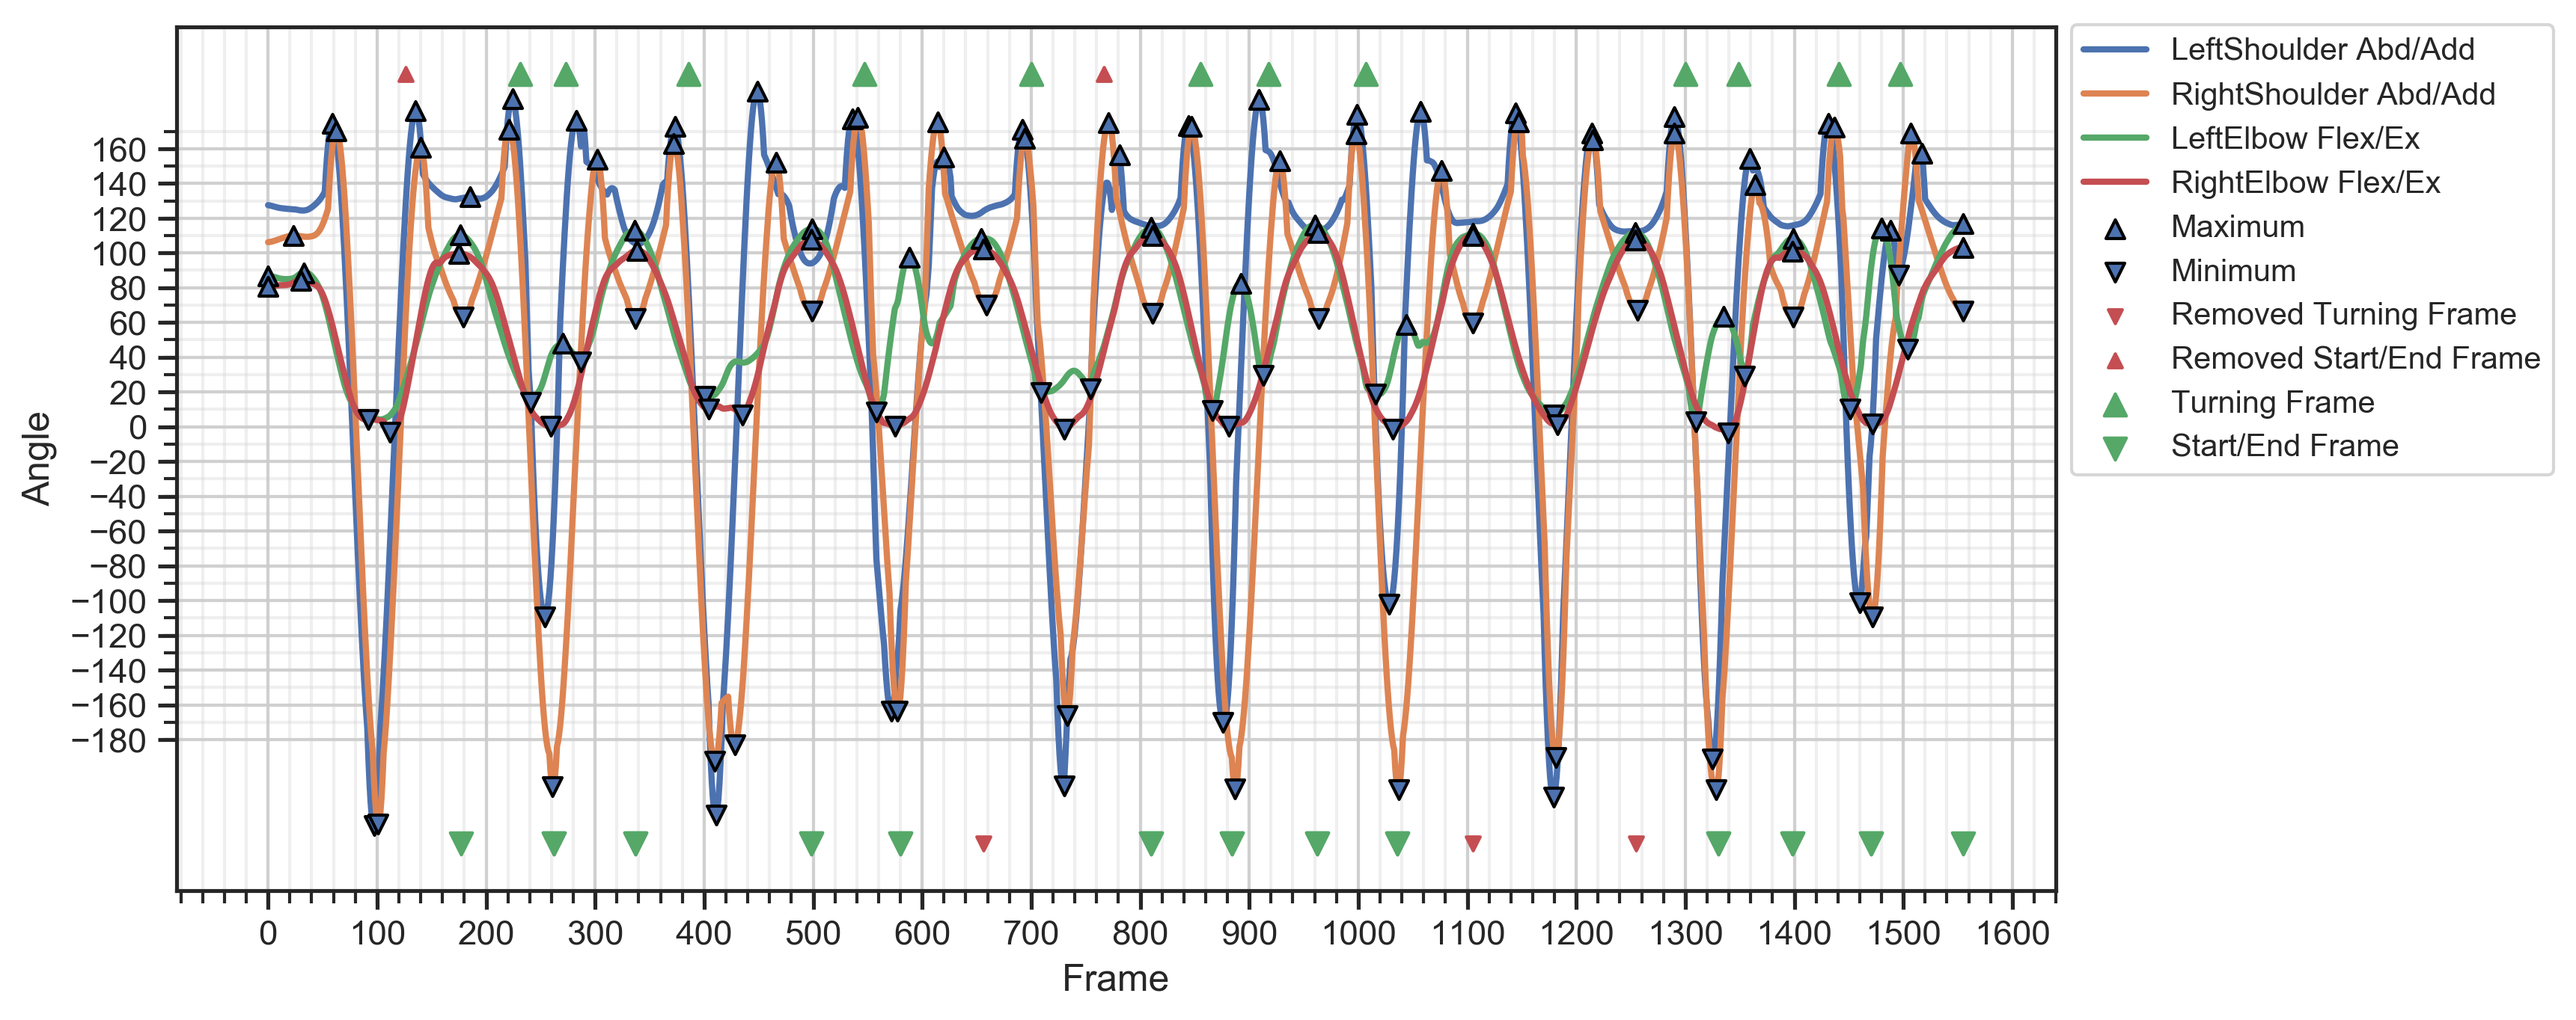
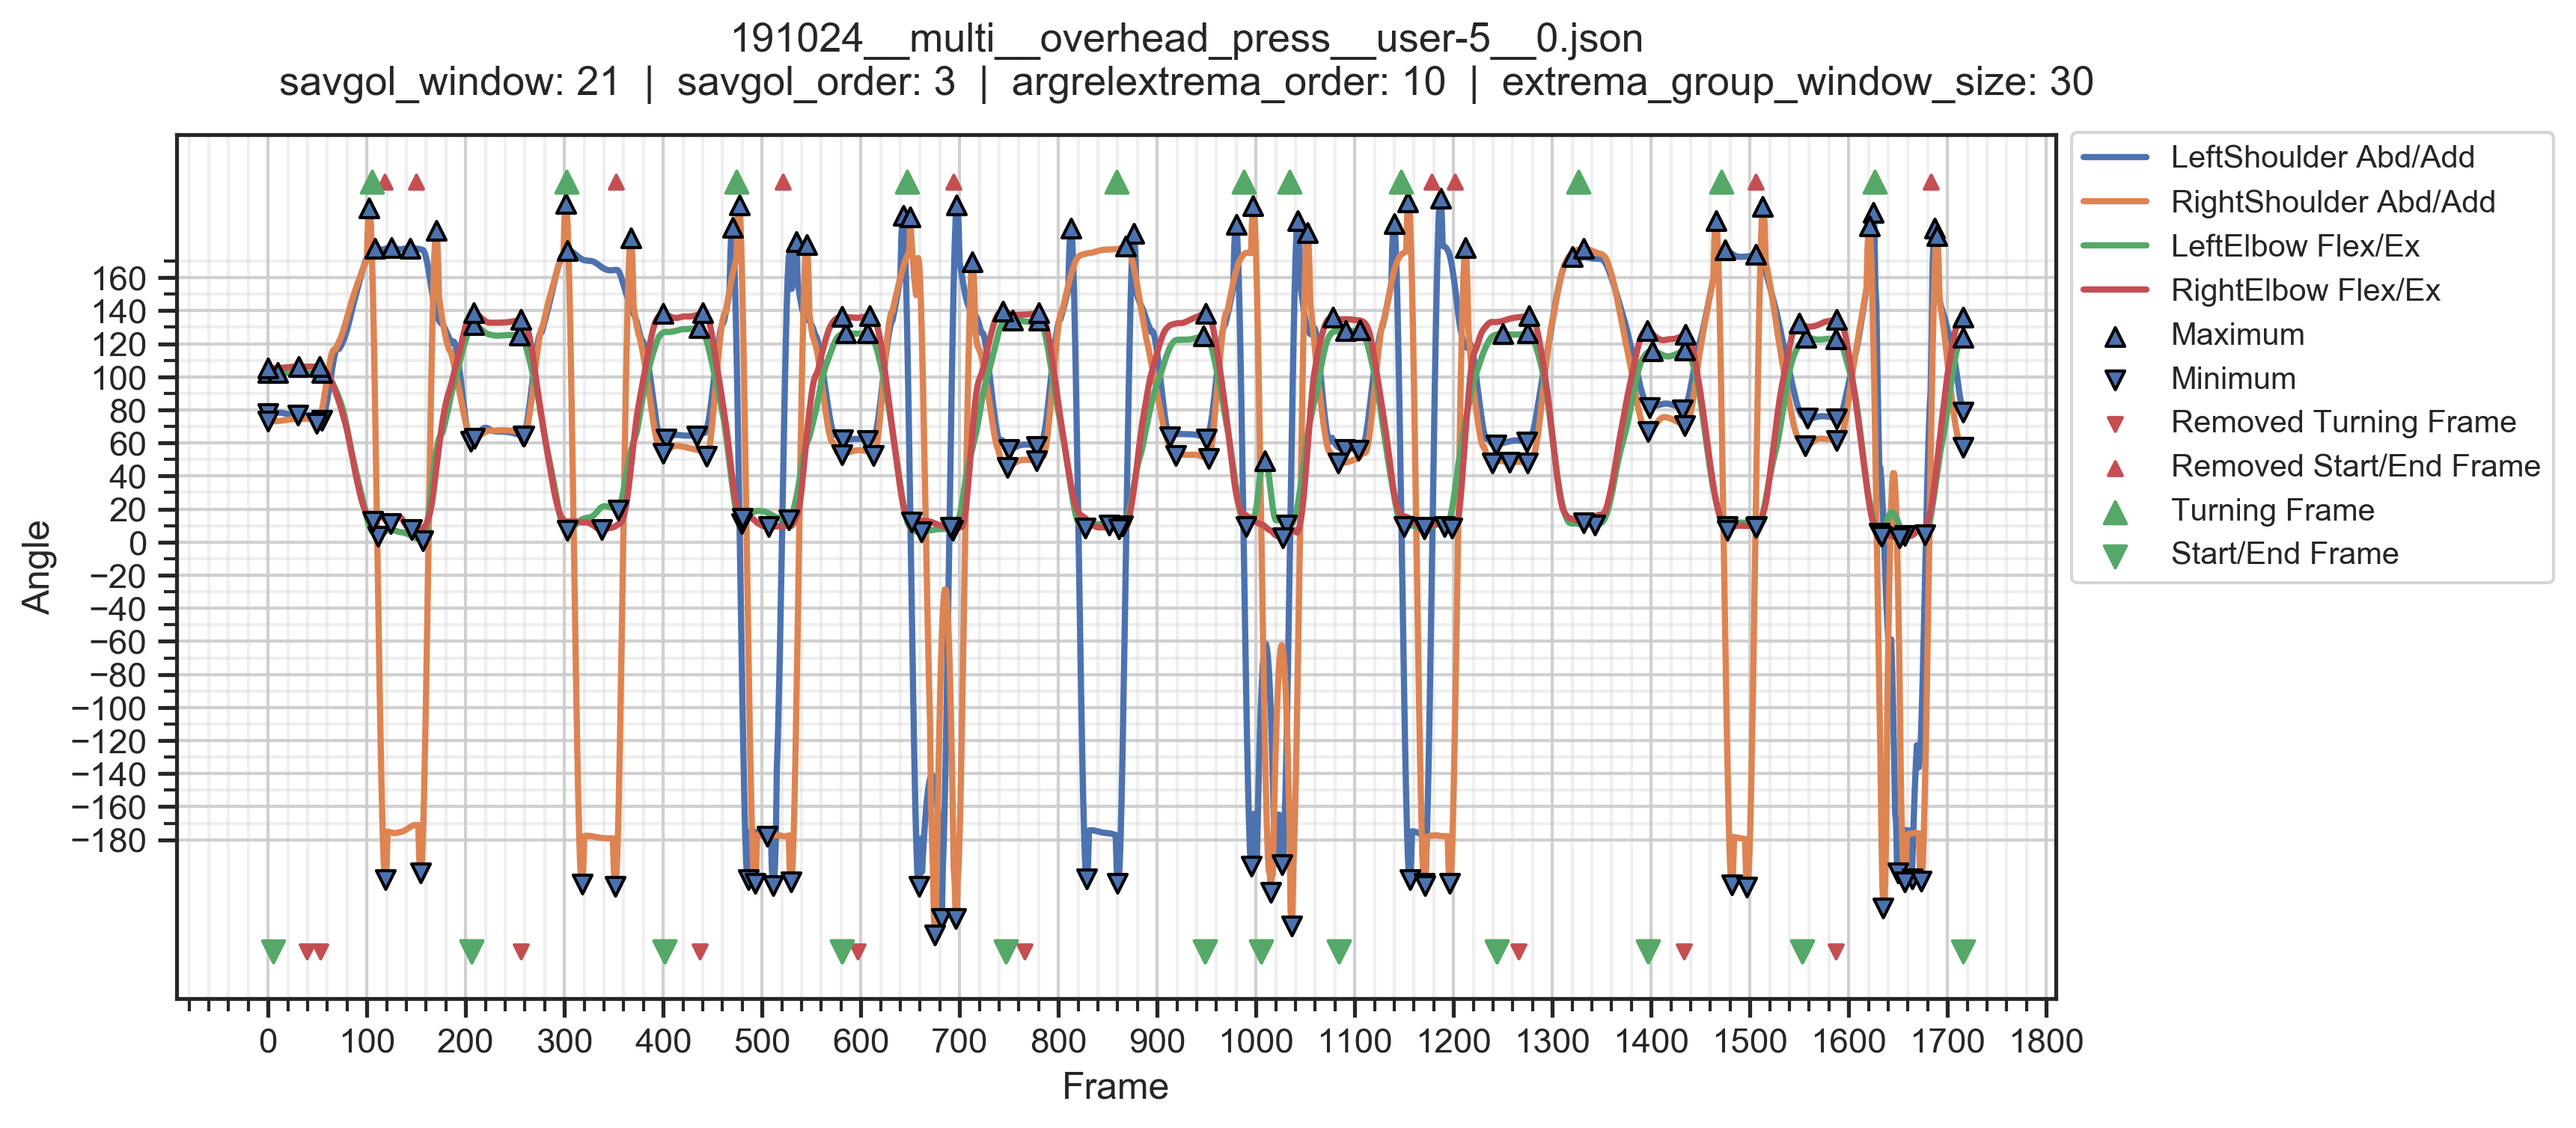
added caption to plot

Changed region(s): [[0.0, 0.0, 0.9948, 0.9853], [0.9637, 0.4619, 0.9948, 0.4927]]

diff --git a/src/analyse_exercise.py b/src/analyse_exercise.py
@@ -29,7 +29,7 @@ mocap_poseprocessor = PoseProcessor(PoseFormatEnum.MOCAP)
 # g_seq = mocap_poseprocessor.load('data/sequences/unique_iterations/complete-session.json', 'squat-dennis-multi-1')
 # g_seq = mocap_poseprocessor.load('data/sequences/testing/multi/overheadpress/levente/2019-09-25_15-09-03_records/complete-session.json', 'overheadpress')
 g_seq = mocap_poseprocessor.load(
-    'data/sequences/191024_tracking/multi/overhead_press/user-8/191024__multi__overhead_press__user-8__0.json')
+    'data/sequences/191024_tracking/multi/overhead_press/user-5/191024__multi__overhead_press__user-5__0.json', "191024__multi__overhead_press__user-5__0.json")
 # g_seq.visualise()
 squat = exercise_loader.load('data/exercises/squat.json')
 knee_lift_left = exercise_loader.load('data/exercises/knee-lift-left.json')

diff --git a/src/hma/movement_analysis/exercise_evaluator.py b/src/hma/movement_analysis/exercise_evaluator.py
@@ -323,6 +323,7 @@ class ExerciseEvaluator:
             plt.legend(loc='upper left', bbox_to_anchor=(1, 1.02), fontsize="small")
             plt.xlabel("Frame")
             plt.ylabel("Angle")
+            fig.suptitle(f"{seq.name}\nsavgol_window: 21  |  savgol_order: 3  |  argrelextrema_order: 10  |  extrema_group_window_size: 30", fontsize=13)
             plt.savefig("subsequencing_extrema.png",
                         bbox_inches="tight",
                         dpi=300)
